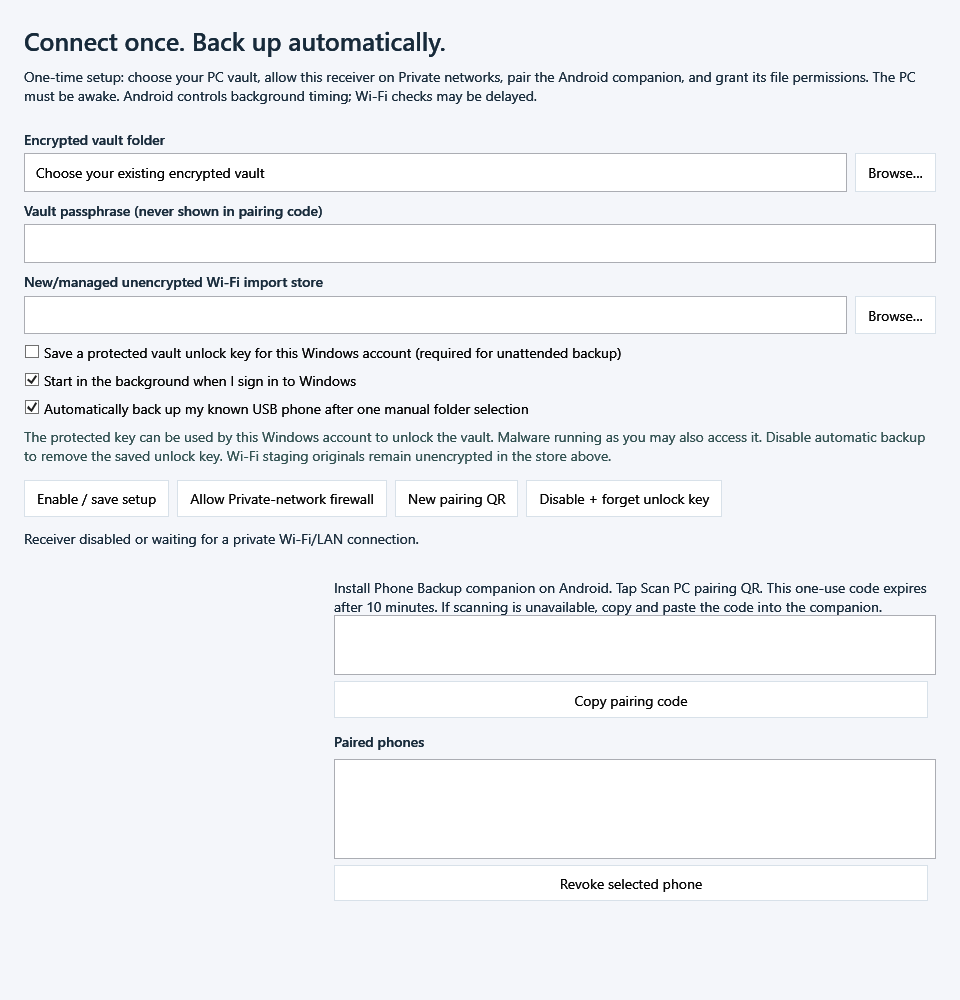
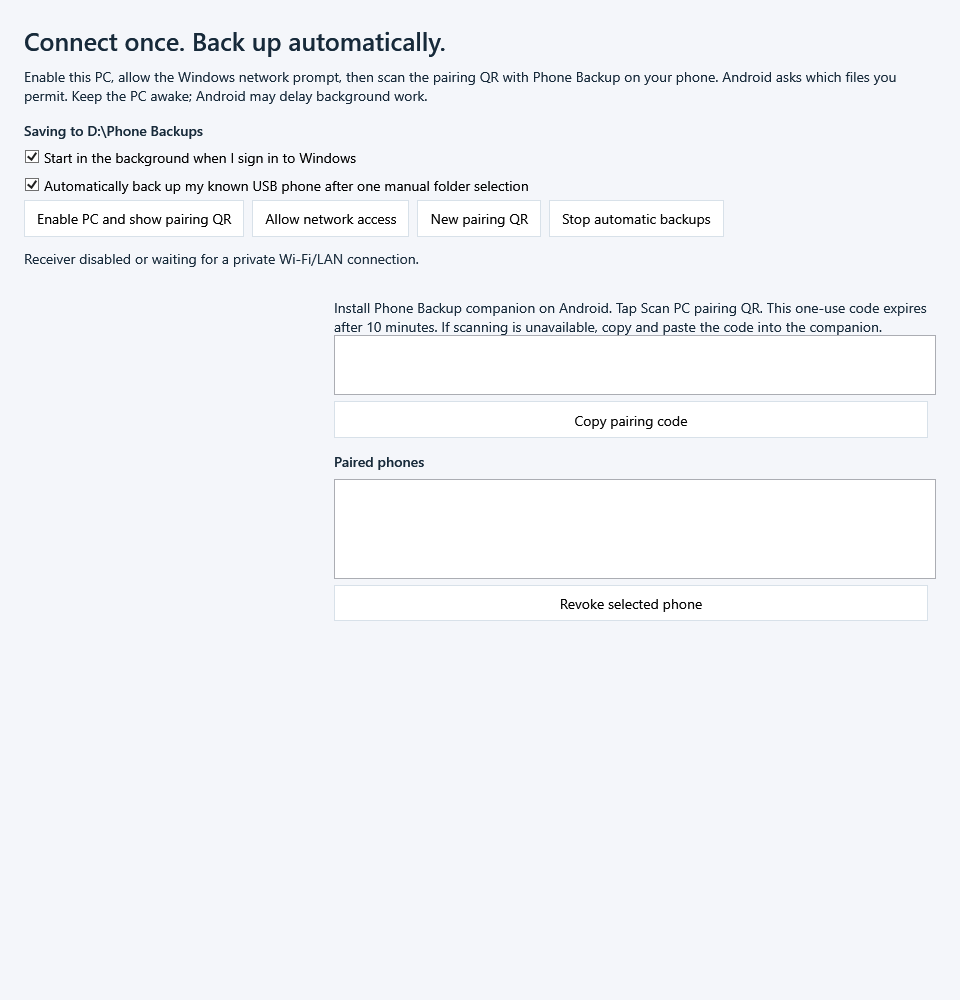
Show implemented beginner setup and readable backup evidence

diff --git a/DEVELOPMENT.md b/DEVELOPMENT.md
@@ -31,3 +31,9 @@ Built a native Android companion and separate PC HTTPS receiver. Added one-use Q
 24 core, 24 USB, 25 LAN/JVM interoperability and 12 packaged UI checks passed, plus nine Android unit checks. Android debug APK builds; lint has zero errors and ten reviewable warnings. The actual Java client ran against the Windows receiver with generated Unicode/empty/binary originals, pinned TLS, repeat/revoke and byte-checked restore. A real Windows handshake exposed an unsupported ephemeral-key mode, which was corrected and retested. A packaged-host trace confirmed relative private-runtime loading without DOTNET_ROOT environment variables.
 
 Physical Pixel 7 Android 17 install/permissions, Wi-Fi/Keystore/background execution, real firewall/startup acceptance and overnight/battery/scale tests remain next. This is an engineering preview, not a consumer release. Product source, debug signing keys and personal media remain outside this public repository. No activity was fabricated or backdated.
+
+## 28 October 2026 — Beginner setup and actual readable backup storage, 0.5
+
+User feedback exposed setup friction: mandatory vault/password/staging concepts. Implemented default readable Simple history with checksummed copies, safe restore and portable reopen; optional private encrypted archives; recommended-location setup, grouped USB selection, managed transfer paths and a simpler Wi-Fi flow. Both backends share the gallery/receiver/automation through a storage interface. Existing encrypted vaults were preserved.
+
+Validated 21 Simple storage cases, 25 private and 26 Simple receiver/actual-Java cases, 12 private and 13 Simple UI checks, existing 24 core/24 USB fixtures and nine Android units. Added a regression for readable bytes edited after an earlier Wi-Fi success receipt: those bytes are rechecked and a new good version is saved while earlier bytes remain. Physical Pixel/Doze/UAC/login/reconnect and broad release gates remain pending. This is implemented preview code, not just an onboarding mockup.

diff --git a/README.md b/README.md
@@ -2,11 +2,19 @@
 
 A Windows-first Android backup product in development: preserve original photos, videos and selected files on your own PC, with a clear way to verify and restore them.
 
-**Version 0.4 developer preview.** Product implementation is private. This public showcase describes measured engineering progress without distributing personal media or proprietary source.
+**Version 0.5 developer preview.** Product implementation is private. This public showcase describes measured engineering progress without distributing personal media or proprietary source.
 
 ![Library interface — explicitly labeled generated demo artwork, no personal media](assets/windows-preview.png)
 
 The image shows the implemented library UI with generated layout-review artwork, not a real user library. Automated library tests separately use synthetic originals in an actual encrypted vault.
+
+## Beginner setup in 0.5
+
+New users accept one recommended backup location. Simple backup saves ordinary readable originals with verified recovery history, without a password/vault/staging-folder questionnaire. Password-protected encrypted archives are optional. USB content groups and managed PC folders simplify the first backup; both storage modes use the same gallery, restore and Wi-Fi receiver. Earlier encrypted vaults remain unchanged.
+
+![Simple setup with an illustrative location; no personal data](assets/simple-setup.png)
+
+21 Simple-storage scenarios passed, including portable reopen, exact restore, unchanged generation reuse, damaged-byte repair and safe failure. Receiver/actual-Java checks passed 25 private and 26 Simple scenarios; gallery smoke passed 12 private and 13 Simple checks. Core/USB regressions remain 24 each, Android units nine. These fixture/Java results do not establish physical Android/background acceptance. The readable mode has no encryption; private transfer copies remain readable in this preview. No automatic deletion/pruning.
 
 ## Current capabilities
 
